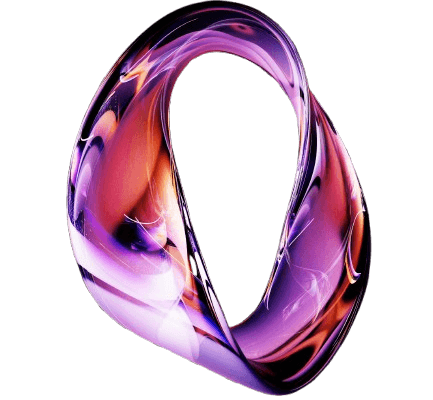
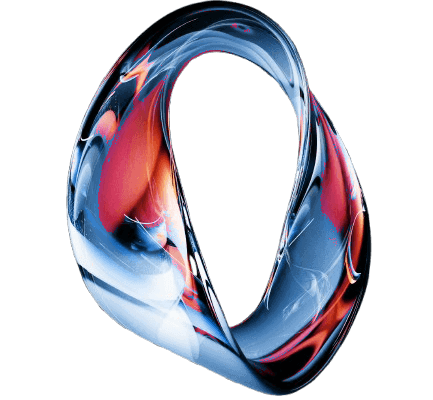
feat(ui): update branding and color scheme to ocean blue theme
- Add PNG favicon alongside existing SVG icon and update metadata icons config
- Remove GrowthBlockingPopupController component from layout for UI simplification
- Change purple accents and backgrounds to ocean blue shades across components
- Replace logo and curve asset images with new ocean blue themed versions
- Force Crisp chat widget to use blue color theme via script configuration
- Update radial glow and checkmark icon colors to sapphire blue variations
- Remove preloading of growth popup background image from home page
- Modify landing about right section to use linear gradient ocean blue background
- Update gradient default colors in CounterUp component to ocean blue gradient
- Adjust svg icon source and add new logo and favicon image files in public assets

Changed region(s): [[0.1501, 0.0, 0.8406, 0.99], [0.6605, 0.78, 0.8106, 0.96], [0.8106, 0.42, 0.8406, 0.51]]

diff --git a/app/layout.tsx b/app/layout.tsx
@@ -5,7 +5,6 @@ import Navbar from '@/components/navbar';
 import Footer from '@/components/footer';
 import ClickSparkProvider from '@/components/common/ClickSparkProvider';
 import CrispChat from '@/components/CrispChat';
-import GrowthBlockingPopupController from '@/components/GrowthBlockingPopup';
 import { getRouteMetadata } from '@/lib/canonical';
 import { getImageSeoSchemaGraph } from '@/lib/image-seo.server';
 
@@ -47,8 +46,12 @@ export async function generateMetadata(): Promise<Metadata> {
     title: metadata.title,
     description: metadata.description,
     icons: {
-      icon: [{ url: '/assets/icons/favicon.svg', type: 'image/svg+xml' }],
+      icon: [
+        { url: '/assets/icons/favicon.svg', type: 'image/svg+xml' },
+        { url: '/assets/icons/favicon.png', type: 'image/png' },
+      ],
       shortcut: ['/assets/icons/favicon.svg'],
+      apple: ['/assets/icons/favicon.png'],
     },
   };
 }
@@ -85,7 +88,6 @@ export default function RootLayout({
         <main className="flex-1">
           <ClickSparkProvider>
             {children}
-            <GrowthBlockingPopupController />
           </ClickSparkProvider>
         </main>
         <Footer />

diff --git a/app/page.tsx b/app/page.tsx
@@ -13,21 +13,10 @@ import LandingMarketingAgency from '@/components/landingMarketingAgency';
 // import LandingTestimonialCarousel from '@/components/landingTestimonialCarousel';
 import LandingUpdates from '@/components/landingUpdates';
 import WorkProcessSection from '@/components/workProcessSection';
-import Image from '@/components/common/SeoImage';
 
 export default function Home() {
   return (
     <div className="bg-[#F2F3F6]">
-      {/* Preload growth popup background image so it’s cached before popup opens */}
-      <Image
-        src="/assets/images/popup-images/popup-2-gradienat-background.webp"
-        alt=""
-        width={1}
-        height={1}
-        priority
-        className="pointer-events-none absolute h-px w-px opacity-0"
-        aria-hidden
-      />
       <Hero contentPath="hero" />
       {/* <LandingLogoScroller contentPath="landingLogoScroller" /> */}
       <ScrollReveal><LandingAbout contentPath="landingAbout" /></ScrollReveal>

diff --git a/components/landingAbout.tsx b/components/landingAbout.tsx
@@ -72,16 +72,9 @@ export default function LandingAbout({
         {/* Right section: services card */}
         <div
           className="relative flex w-full min-h-[320px] min-w-0 flex-1 flex-col items-center overflow-hidden rounded-xl p-4 py-6 sm:min-h-[360px] sm:p-5 sm:py-8 md:min-h-0 min-[1250px]:max-w-[650px]"
+          style={{ background: 'linear-gradient(135deg, #06457F 0%, #0474C4 50%, #0A192F 100%)' }}
         >
-          <Image
-            src={finalContent.rightSection.backgroundImage}
-            seo={(finalContent.rightSection as any).backgroundImageSeo}
-            alt=""
-            fill
-            aria-hidden
-            className="object-cover object-center"
-            sizes="(max-width: 640px) 100vw, (max-width: 1250px) 90vw, 650px"
-          />
+
           <div className="relative z-10 flex w-full max-w-full flex-col items-center gap-4 sm:gap-6 md:gap-6">
             <RichTextBlock
               as="div"

diff --git a/components/CrispChat.tsx b/components/CrispChat.tsx
@@ -21,10 +21,18 @@ export default function CrispChat() {
 
       window.$crisp = [];
       window.CRISP_WEBSITE_ID = crispWebsiteId;
+      // Force blue theme (Crisp only supports predefined themes, not hex)
+      window.$crisp.push(['do', 'setColorTheme', ['blue']]);
 
       const script = document.createElement('script');
       script.src = 'https://client.crisp.chat/l.js';
       script.async = true;
+      script.onload = () => {
+        // Re-apply after script loads to override any dashboard setting
+        if (window.$crisp) {
+          window.$crisp.push(['do', 'setColorTheme', ['blue']]);
+        }
+      };
       document.head.appendChild(script);
     };
 

diff --git a/components/landingChoose.tsx b/components/landingChoose.tsx
@@ -47,7 +47,7 @@ export default function LandingChoose({
         <div className="mb-14 grid grid-cols-1 gap-6 md:grid-cols-2 md:gap-8 lg:mb-12 lg:gap-10">
           {finalContent.benefits.map((benefit, index) => (
             <div key={index} className="flex gap-4 sm:gap-5">
-              {/* Purple Checkmark Icon */}
+              {/* Sapphire Blue Checkmark Icon */}
               <div className="flex h-6 w-6 flex-shrink-0 items-center justify-center rounded-full bg-[#06457F]">
                 <svg
                   className="h-[1rem] w-[1rem] text-white"

diff --git a/components/contents/Landing/content.ts b/components/contents/Landing/content.ts
@@ -150,7 +150,7 @@ export const customWebDevContent = {
     description:
         'As an expert web development agency, we build modern websites, apps, and plugins for businesses. We focus on quality, speed, and results, so you get smart solutions and lasting success. From the initial idea to the final launch, we ensure everything meets your needs.',
     curveImage: {
-        src: '/curve-asset.png',
+        src: '/curve-asset-ocean.png',
         alt: 'Curve decoration',
         width: 1920,
         height: 200,

diff --git a/app/contact/page.tsx b/app/contact/page.tsx
@@ -1,4 +1,4 @@
-'use client';
+'use client';
 
 import Image from '@/components/common/SeoImage';
 import { motion } from 'framer-motion';
@@ -53,7 +53,7 @@ export default function ContactPage() {
           aria-hidden="true"
         />
 
-        {/* Purple radial glow */}
+        {/* Sapphire blue radial glow */}
         <div
           className="pointer-events-none absolute left-1/2 top-[30%] z-0 h-[500px] w-[700px] -translate-x-1/2 -translate-y-1/2 rounded-full opacity-[0.12]"
           style={{

diff --git a/components/customWebDev.tsx b/components/customWebDev.tsx
@@ -34,7 +34,7 @@ export default function CustomWebDev({
         />
       </div>
 
-      {/* Top Purple Section with Diagonal Bottom */}
+      {/* Top Ocean Blue Section with Diagonal Bottom */}
       <div className="relative z-5  py-8">
         <div className="container mx-auto px-4 sm:px-6 lg:px-8">
           <div className="mx-auto max-w-6xl text-center">

diff --git a/components/footer.tsx b/components/footer.tsx
@@ -36,7 +36,7 @@ export default function Footer() {
           <div className="shrink-0 md:w-[200px] lg:w-[240px]">
             <Link href="/">
               <Image
-                src="/logo-zephlo.png"
+                src="/logo-zephlo-white.png"
                 alt="Zephlo Tech Logo"
                 width={220}
                 height={40}

diff --git a/components/common/CounterUp.tsx b/components/common/CounterUp.tsx
@@ -13,7 +13,7 @@ interface CounterUpProps {
   stats: CounterStat[];
   color?: string;
   className?: string;
-  /** Gradient colors for value and label text. Defaults to a purple/pink gradient. */
+  /** Gradient colors for value and label text. Defaults to an ocean blue gradient. */
   gradientColors?: string[];
 }
 
